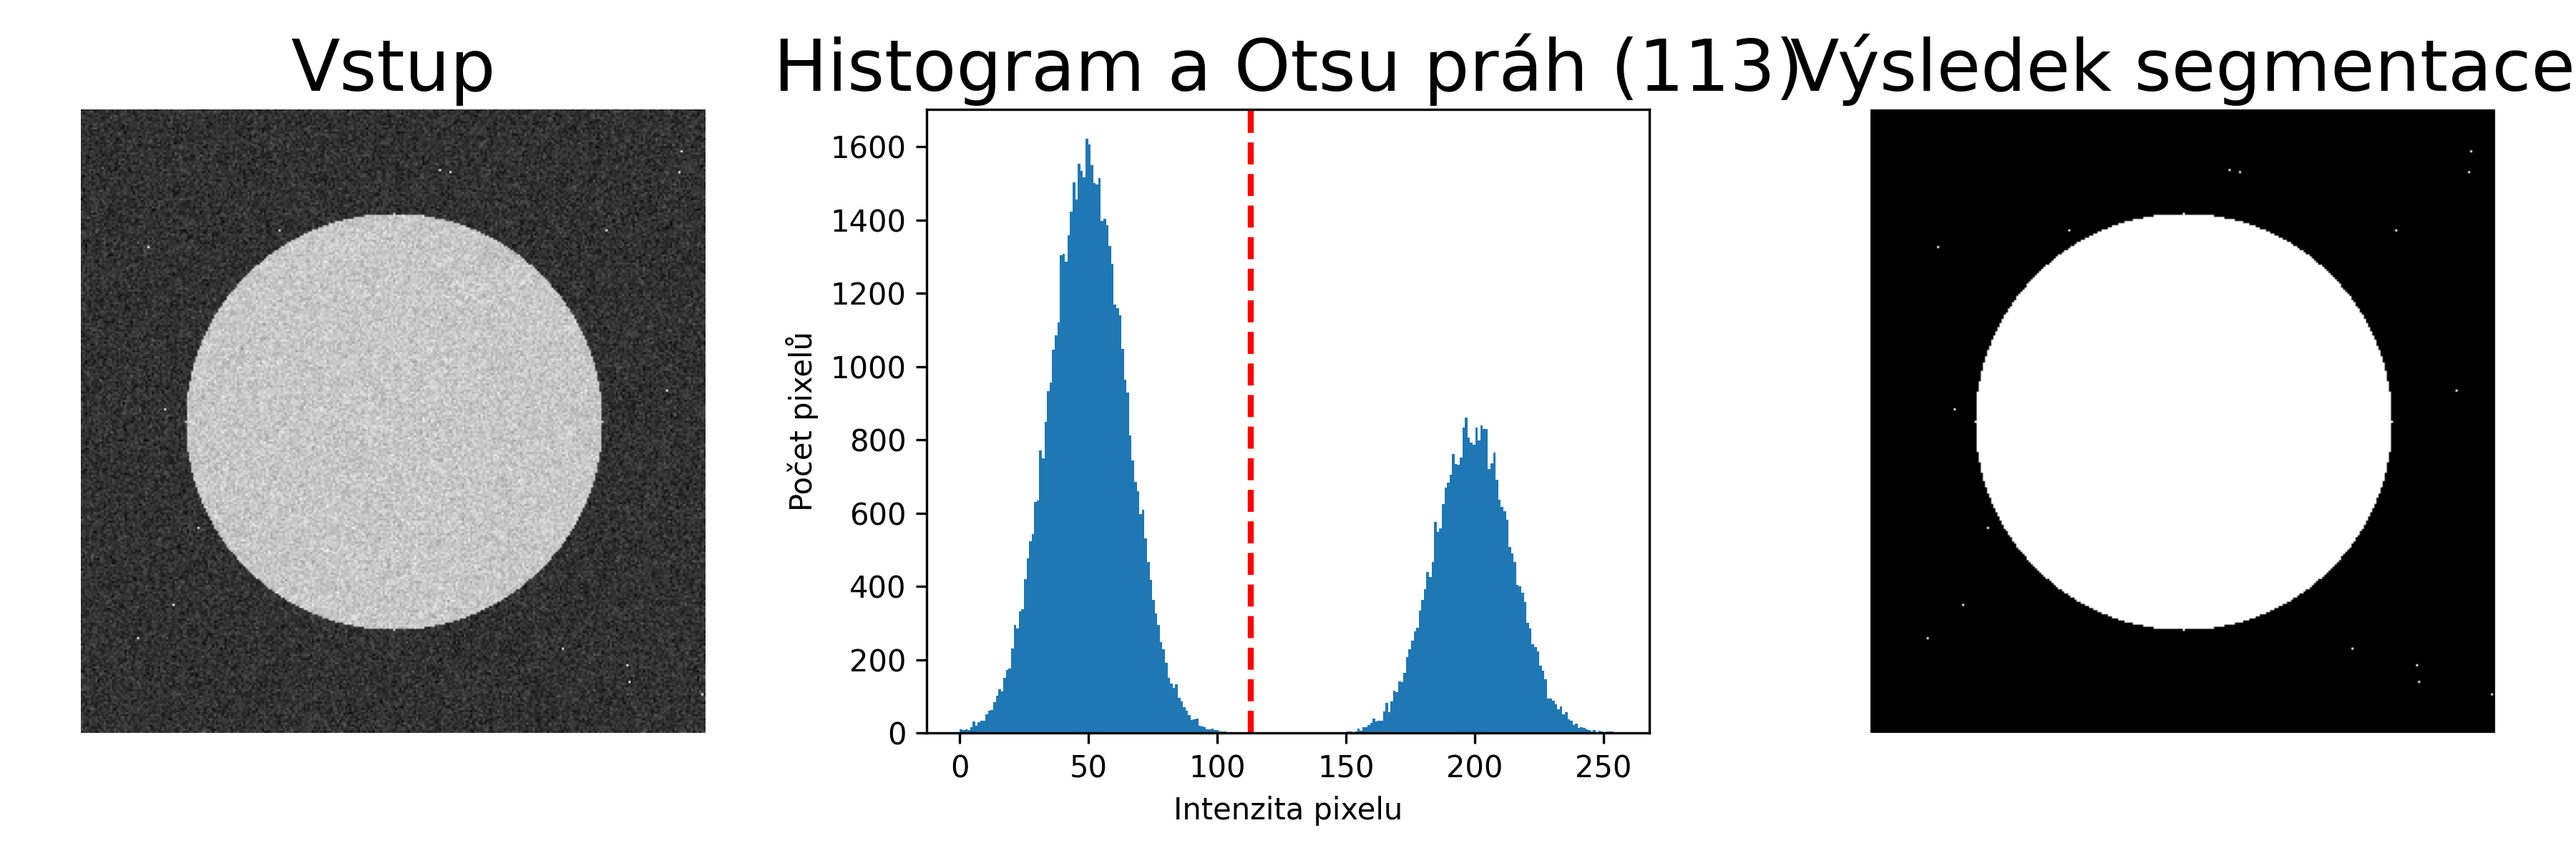
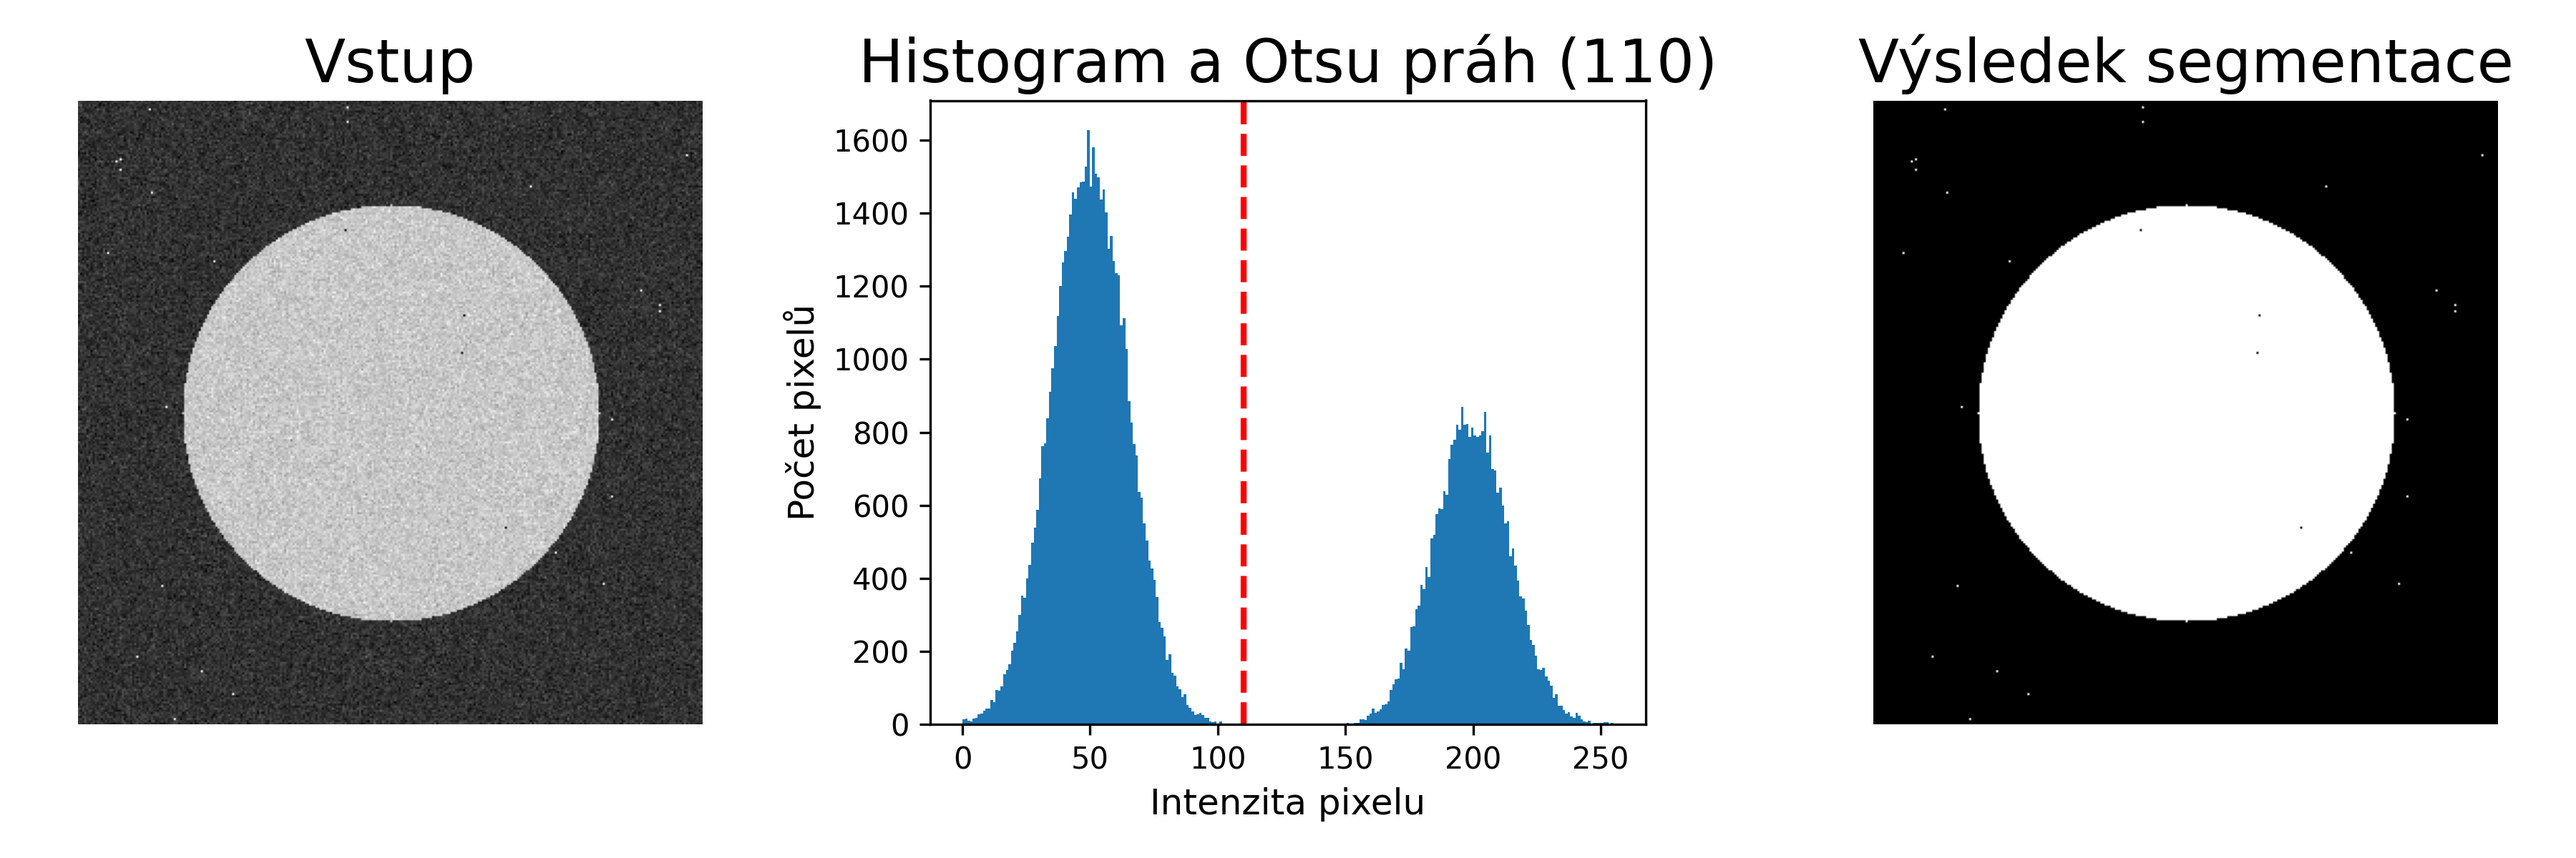
Initial Commit

diff --git a/Obrazky_do_reserse/Histogram a prahování.py b/Obrazky_do_reserse/Histogram a prahování.py
@@ -17,17 +17,17 @@ ret, thresh = cv2.threshold(img, 0, 255, cv2.THRESH_BINARY + cv2.THRESH_OTSU)
 fig, axs = plt.subplots(1, 3, figsize=(12, 4))
 
 axs[0].imshow(img, cmap='gray')
-axs[0].set_title("Vstup", fontsize=24)
+axs[0].set_title("Vstup", fontsize=20)
 axs[0].axis('off')
 
 axs[1].hist(img.ravel(), 256)
 axs[1].axvline(ret, color='r', linestyle='dashed', linewidth=2)
-axs[1].set_title(f"Histogram a Otsu práh ({int(ret)})", fontsize=24)
-axs[1].set_xlabel("Intenzita pixelu")
-axs[1].set_ylabel("Počet pixelů")
+axs[1].set_title(f"Histogram a Otsu práh ({int(ret)})", fontsize=20)
+axs[1].set_xlabel("Intenzita pixelu", fontsize=12)
+axs[1].set_ylabel("Počet pixelů", fontsize=12)
 
 axs[2].imshow(thresh, cmap='gray')
-axs[2].set_title("Výsledek segmentace", fontsize=24)
+axs[2].set_title("Výsledek segmentace", fontsize=20)
 axs[2].axis('off')
 
 plt.tight_layout()
